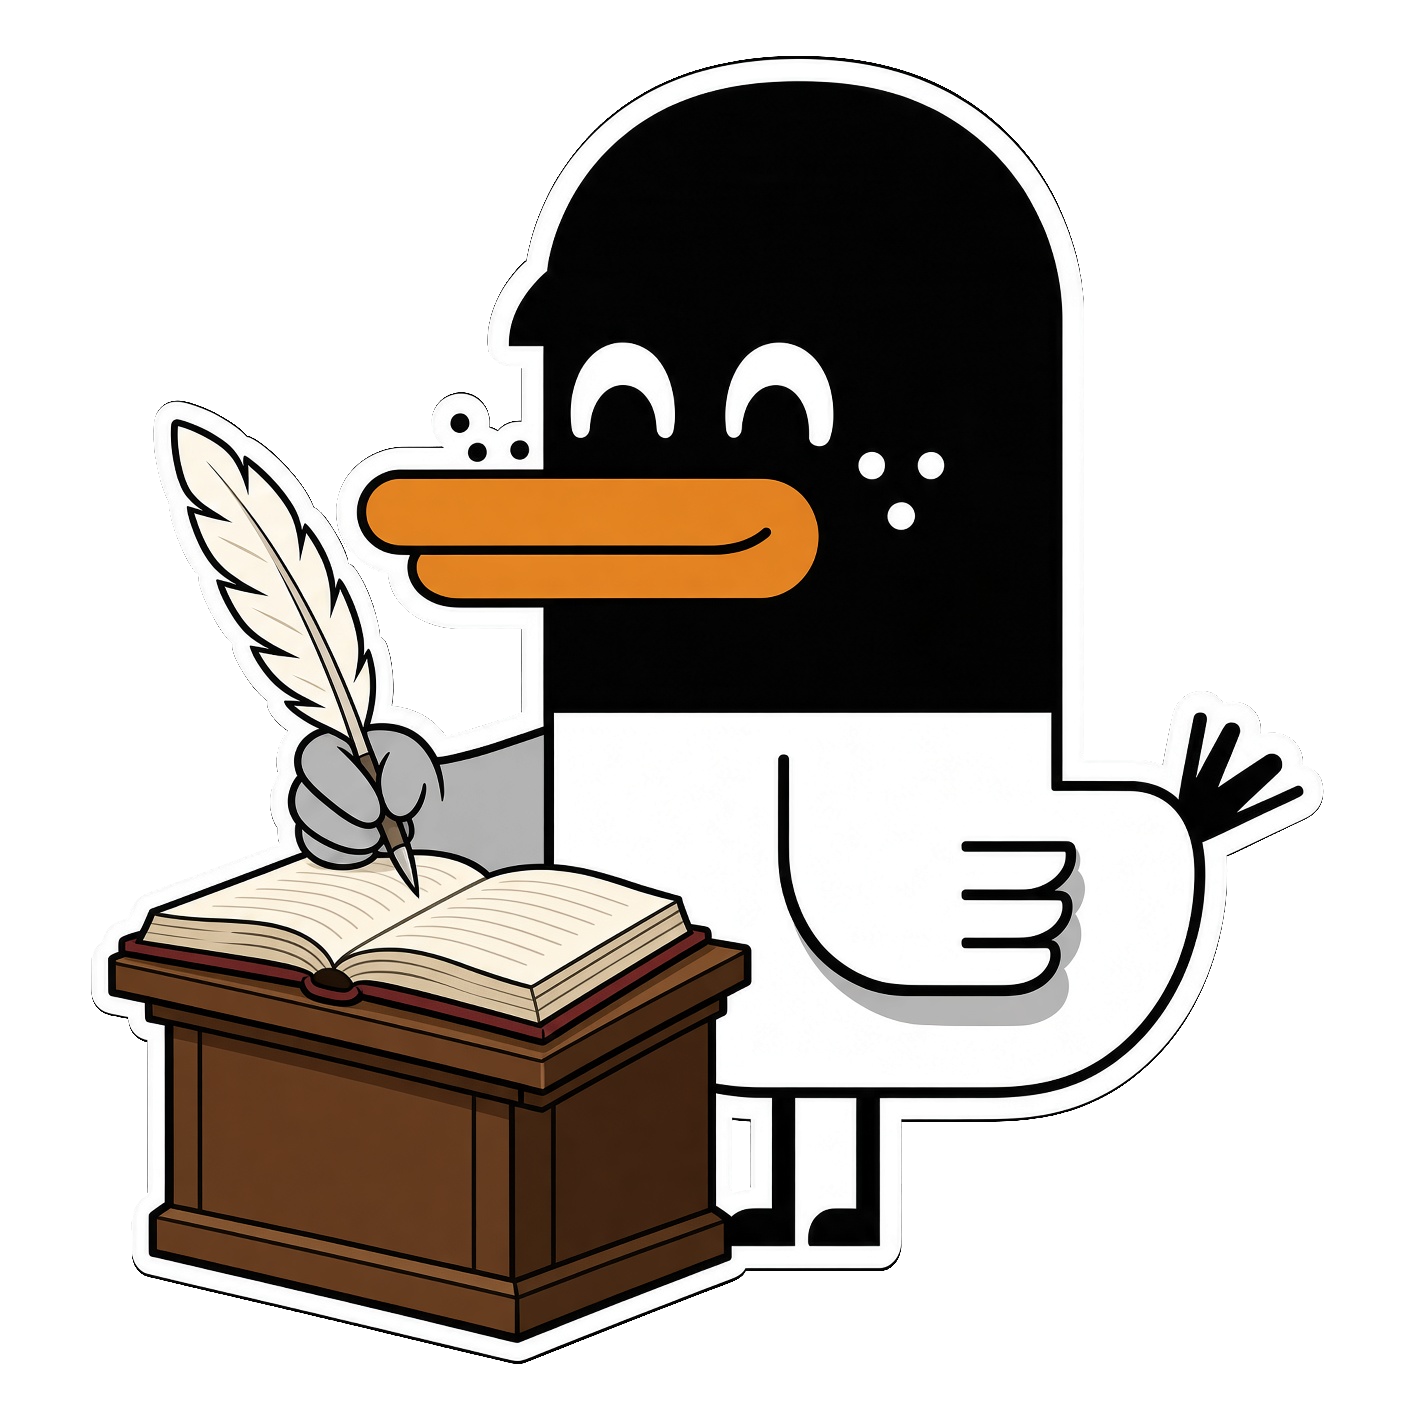
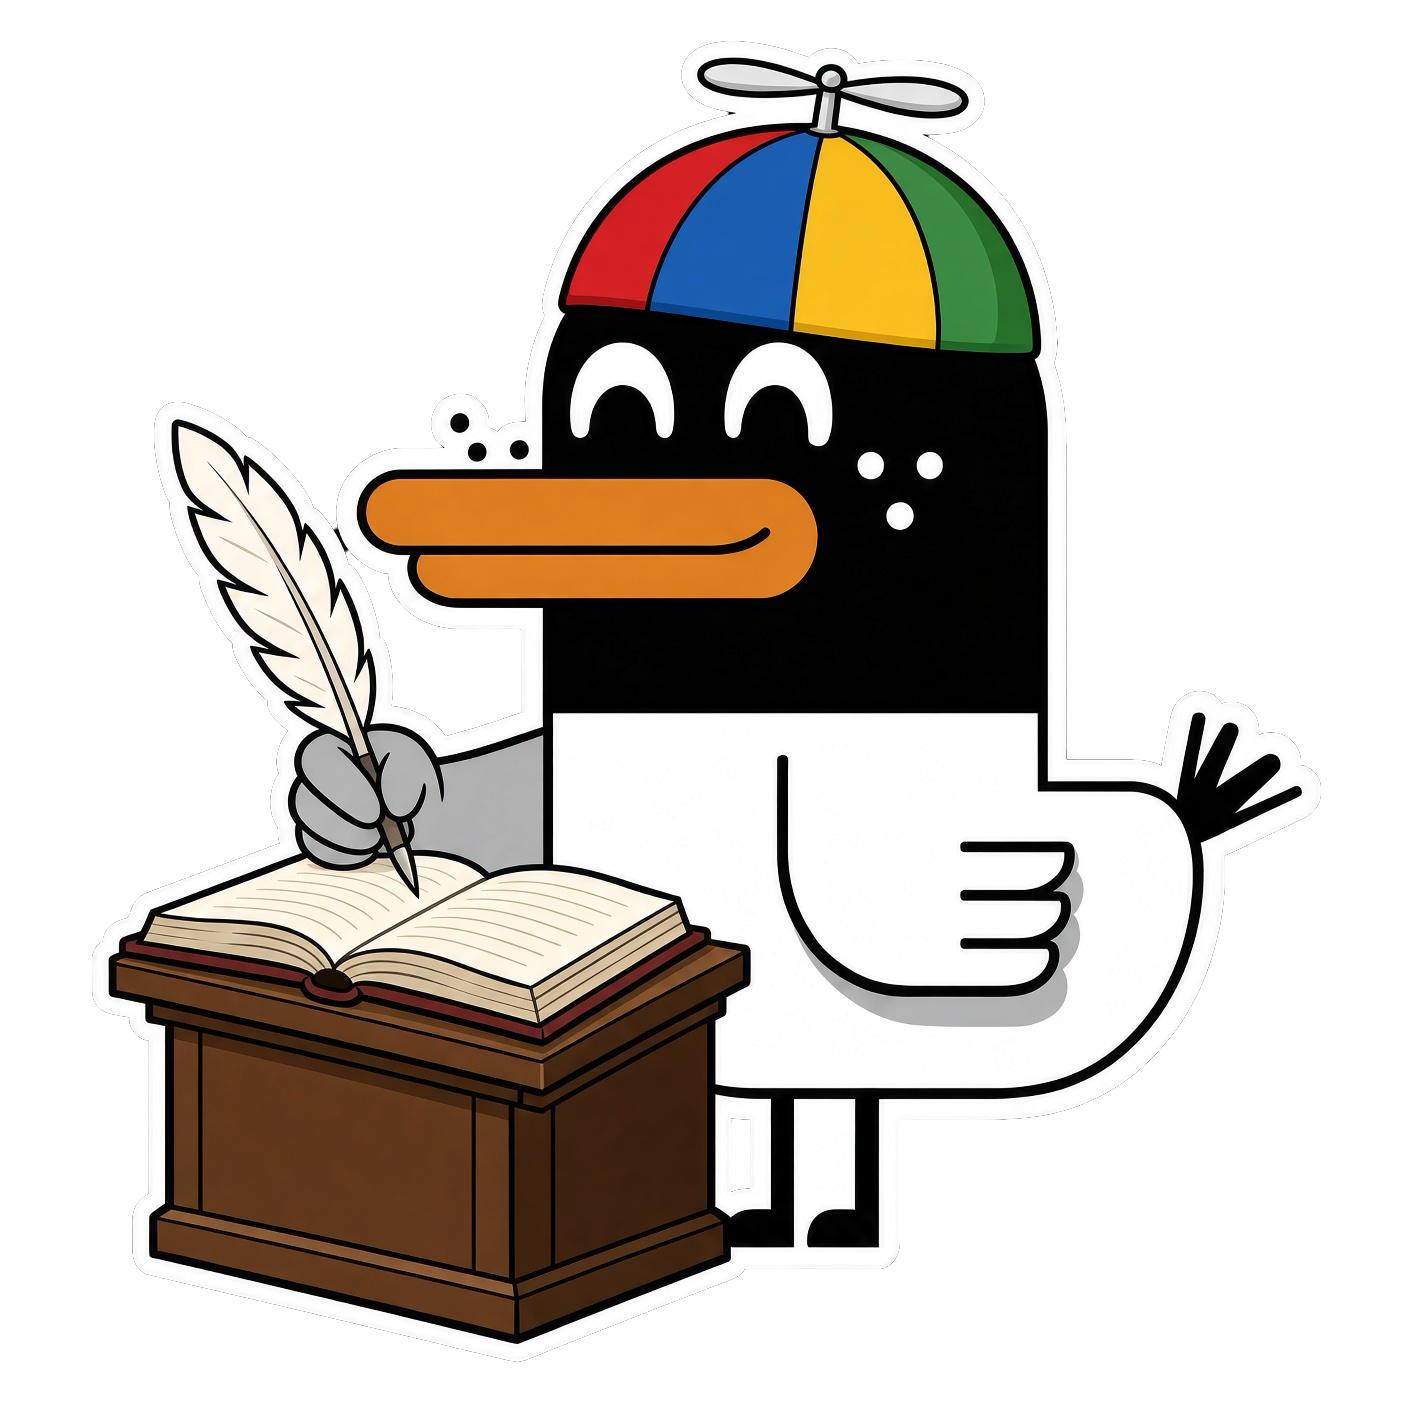
guestbook.php: swap to v3 mascot art (propeller hat fix)
Derek sent two follow-up revisions of the propeller-hat guestbook
mascot (v2, v3 "fixes issues in hat"); using v3 as requested. Archived
source replaces the earlier plain version.

diff --git a/public/guestbook.php b/public/guestbook.php
@@ -43,7 +43,7 @@ echo page_head(DUCKFIND_NAME . ' - guestbook');
 echo '<form action="/" method="get"><a href="/"><b>' . DUCKFIND_NAME . '</b></a>&nbsp;&nbsp;'
    . '<input type="text" name="q" size="26">&nbsp;<input type="submit" value="Quack!"></form>';
 echo '<h2>Guest<font color="#E88C22">book</font></h2>';
-echo '<img src="/duck-guestbook.gif" alt="' . DUCKFIND_NAME . '" width="189" height="200" align="right" hspace="12" vspace="4">';
+echo '<img src="/duck-guestbook.gif" alt="' . DUCKFIND_NAME . '" width="187" height="200" align="right" hspace="12" vspace="4">';
 echo '<p><font size="1">Sign in from your vintage machine! Say what hardware and browser '
    . 'got you here. Entries appear after a quick review.</font></p>';
 
